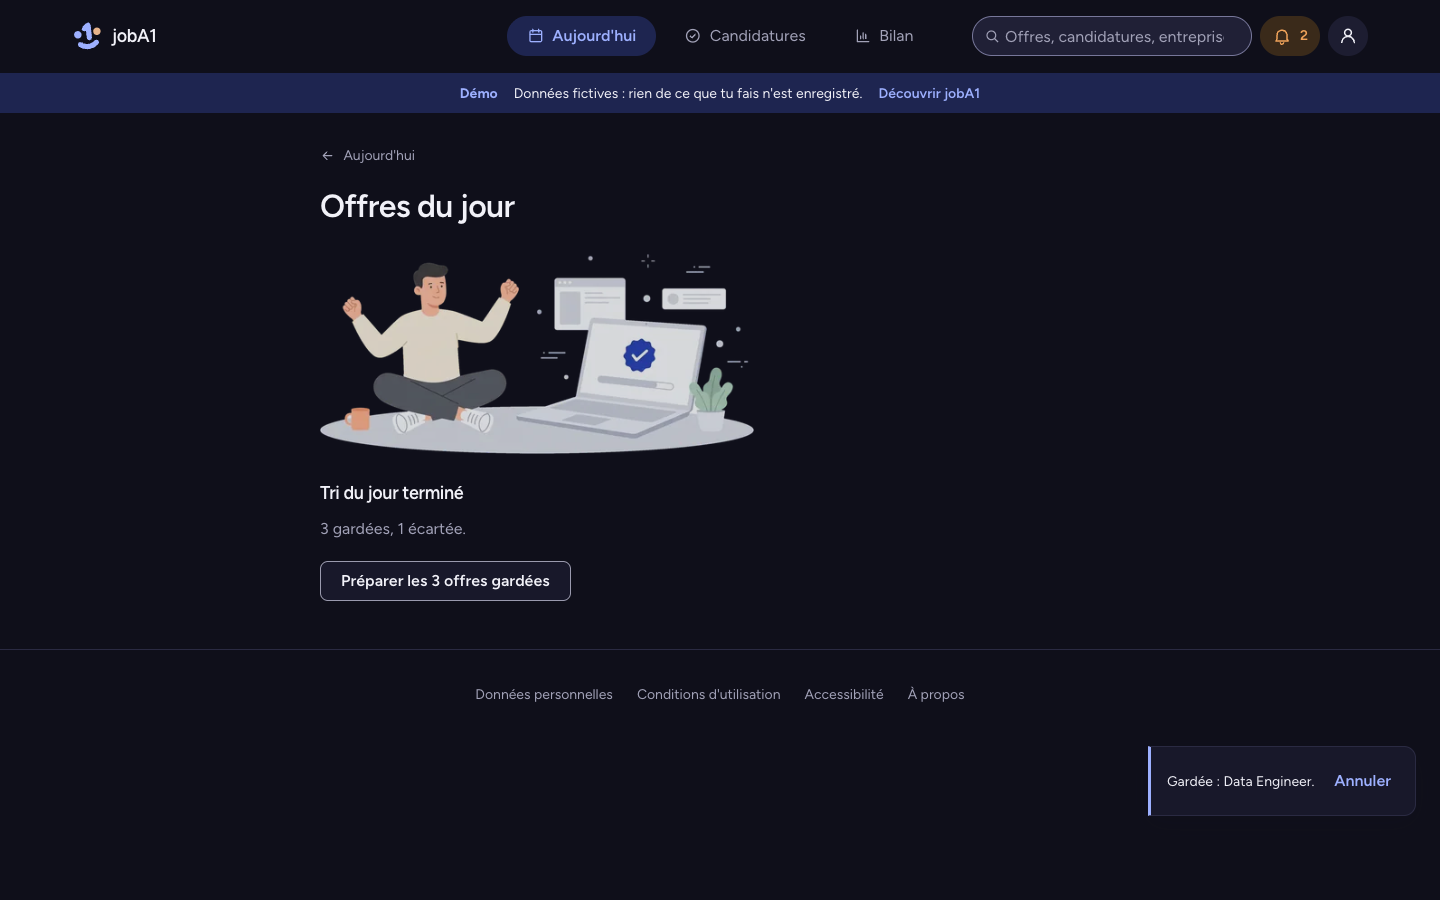
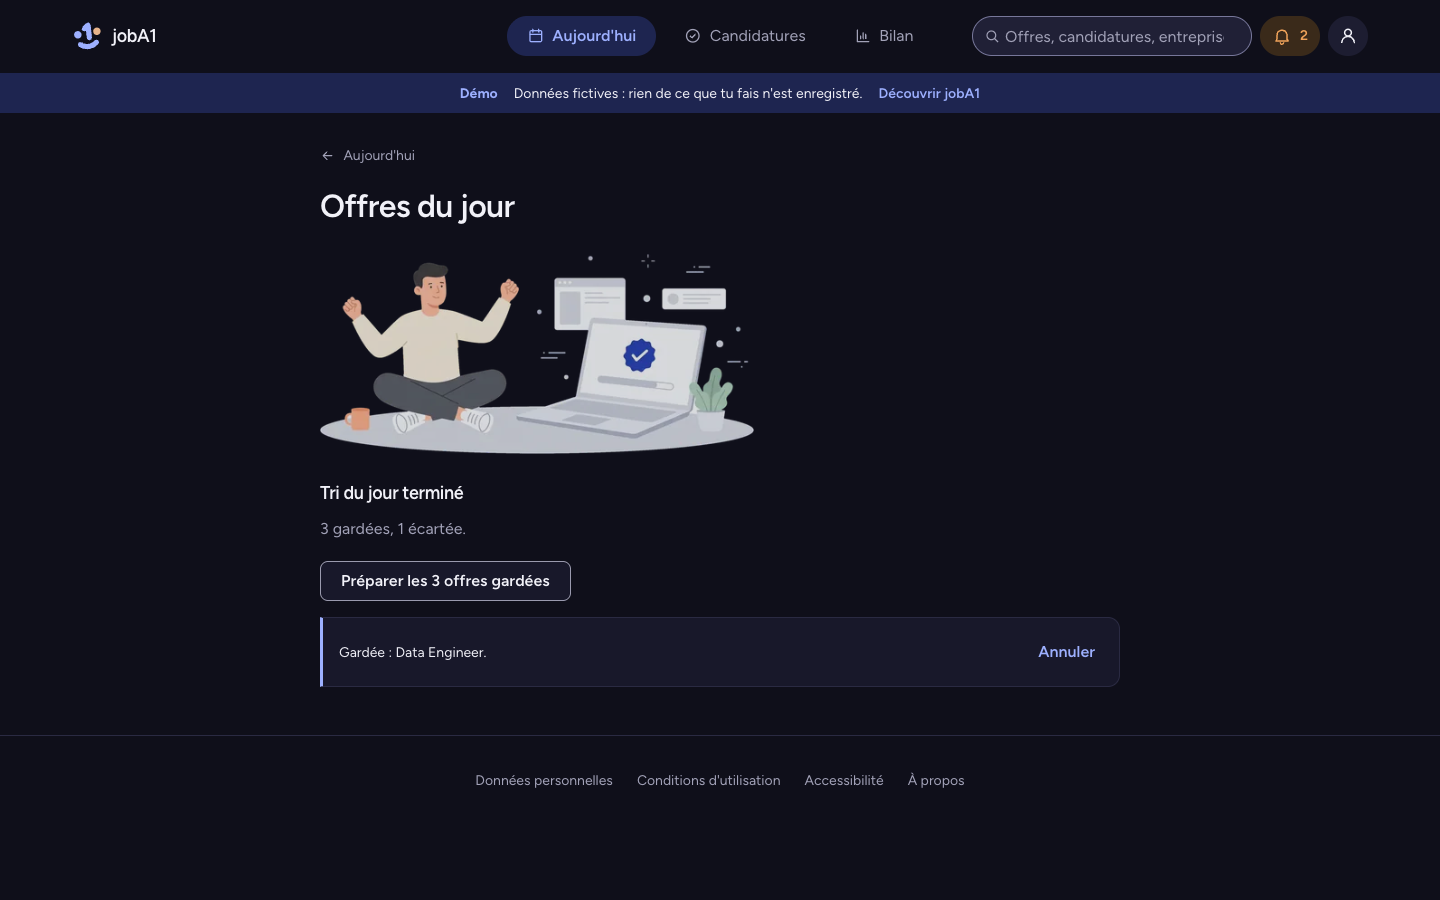
fix(tri): le dernier « Annuler » reste dans la page sur l'écran de fin

diff --git a/frontend/src/components/DailyPick.vue b/frontend/src/components/DailyPick.vue
@@ -228,36 +228,42 @@ const prepareLabel = computed(() => `Préparer ${kept.value === 1 ? "l'offre gar
           right="Garder"
         />
       </div>
-      <FaceState
+      <div
         v-else
-        title="Tri du jour terminé"
-        illustration="reussite"
-        class="pick-done"
-        data-test="pick-done"
+        class="pick-step"
       >
-        <p v-if="summary">
-          {{ summary }}.
-        </p>
-        <div class="face-state-actions">
-          <button
-            v-if="kept"
-            type="button"
-            class="secondary"
-            data-test="pick-preparing"
-            @click="emit('showPreparing')"
-          >
-            {{ prepareLabel }}
-          </button>
-          <RouterLink
-            v-else
-            :to="{ name: 'today' }"
-            class="button-link"
-            data-test="pick-today"
-          >
-            Revenir à Aujourd'hui
-          </RouterLink>
-        </div>
-      </FaceState>
+        <FaceState
+          title="Tri du jour terminé"
+          illustration="reussite"
+          class="pick-done"
+          data-test="pick-done"
+        >
+          <p v-if="summary">
+            {{ summary }}.
+          </p>
+          <div class="face-state-actions">
+            <button
+              v-if="kept"
+              type="button"
+              class="secondary"
+              data-test="pick-preparing"
+              @click="emit('showPreparing')"
+            >
+              {{ prepareLabel }}
+            </button>
+            <RouterLink
+              v-else
+              :to="{ name: 'today' }"
+              class="button-link"
+              data-test="pick-today"
+            >
+              Revenir à Aujourd'hui
+            </RouterLink>
+          </div>
+        </FaceState>
+        <!-- Le dernier « Annuler » reste à sa place, sous l'action (sur ordinateur). -->
+        <UndoToast inline />
+      </div>
     </Transition>
   </div>
 </template>

diff --git a/frontend/src/components/DailyPick.test.ts b/frontend/src/components/DailyPick.test.ts
@@ -69,6 +69,19 @@ describe("DailyPick", () => {
     expect(wrapper.emitted("showPreparing")).toBeTruthy();
   });
 
+  it("à la fin, le dernier « Annuler » reste dans la page", async () => {
+    PATCH.mockResolvedValue({ response: { ok: true } });
+    const wrapper = mountPick();
+    await wrapper.find("[data-test=pick-keep]").trigger("click");
+    await wrapper.find("[data-test=pick-keep]").trigger("click");
+    await flushPromises();
+    const done = wrapper.find("[data-test=pick-done]");
+    expect(done.exists()).toBe(true);
+    expect(wrapper.find("[data-test=undo-inline]").text()).toContain("Gardée : SRE.");
+    await useUndo().undo();
+    wrapper.unmount();
+  });
+
   it("sur téléphone : la note, pourquoi et l'annonce passent dans le panneau, pas de raccourcis", () => {
     vi.stubGlobal("matchMedia", (media: string) => ({ matches: media.includes("599px"), addEventListener() {}, removeEventListener() {} }));
     const wrapper = mountPick();

diff --git a/frontend/src/style.css b/frontend/src/style.css
@@ -3597,6 +3597,7 @@ main:focus { outline: none; }
 .pick-ad { justify-self: start; }
 .triage-pile .pick-done { padding: 0; justify-items: start; text-align: left; }
 .triage-pile .pick-done .illu.spot { margin-inline: 0; }
+.triage-pile .pick-done .face-state-actions { justify-content: flex-start; }
 
 /* --- Aujourd'hui en une colonne (1.6.51, docs/interface.md n° 17, planche « Revue 1.6.46 ») ---
    Tous les blocs sur les mêmes bords ; fond de page clair, les blocs neutres sur --band. */
